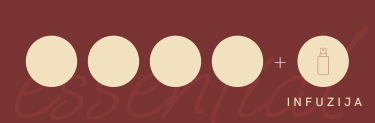
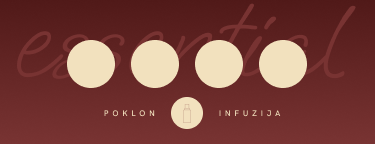
Apple Wallet strip 2.60:1 (fix isecanja na iPhone) + novi raspored pecata
- strip 750x288 (Apple storeCard slot 375x144), nema vise rezanja ivica
- single row (signature 8 / essential 4), reward dole u sredini
- manji dry zig, novi centri kruznica i reward-a
- zamenjen art (strip-signature/essential, stamp-dry, logo @1x/2x/3x)

diff --git a/inc/wallet-apple.php b/inc/wallet-apple.php
@@ -142,14 +142,22 @@ function dry65_wallet_apple_strip_png($acc, $scale = 2) {
     if (!$base) return '';
     $W = imagesx($base); $H = imagesy($base);
 
-    // centri pečat-krugova kao odnosi (izmereno iz baznih slika)
-    $xs = [0.13627, 0.30160, 0.46693, 0.63227];
-    $ys = $tier === 'signature' ? [0.26626, 0.74878] : [0.49675];
-    $centers = [];
-    foreach ($ys as $ry) foreach ($xs as $rx) $centers[] = [$rx, $ry];
+    // centri pečat-krugova i reward-a kao odnosi (izmereno iz baznih slika 750x288)
+    // Strip je 2.60:1 (Apple storeCard 375x144); pečati u jednom redu, reward dole u sredini.
+    if ($tier === 'signature') {
+        $centers = [
+            [0.0873, 0.4983], [0.2046, 0.4983], [0.3220, 0.4984], [0.4393, 0.4983],
+            [0.5567, 0.4983], [0.6740, 0.4983], [0.7913, 0.4984], [0.9087, 0.4984],
+        ];
+        $reward_center = [0.4980, 0.7855];
+    } else {
+        $centers = [
+            [0.2420, 0.4428], [0.4127, 0.4428], [0.5833, 0.4428], [0.7540, 0.4428],
+        ];
+        $reward_center = [0.4980, 0.7826];
+    }
 
-    // reward-krug (MASKA/INFUZIJA) — nagrada se NE zarađuje; žig ide preko kad je iskorišćena
-    $reward_center = $tier === 'signature' ? [0.86160, 0.50730] : [0.86093, 0.49512];
+    // nagrada se NE zarađuje; žig ide preko reward-kruga kad je iskorišćena
     $reward_used   = !empty($acc->reward_used_at);
 
     $mark = @imagecreatefrompng($dir . 'stamp-dry' . $sfx . '.png');
